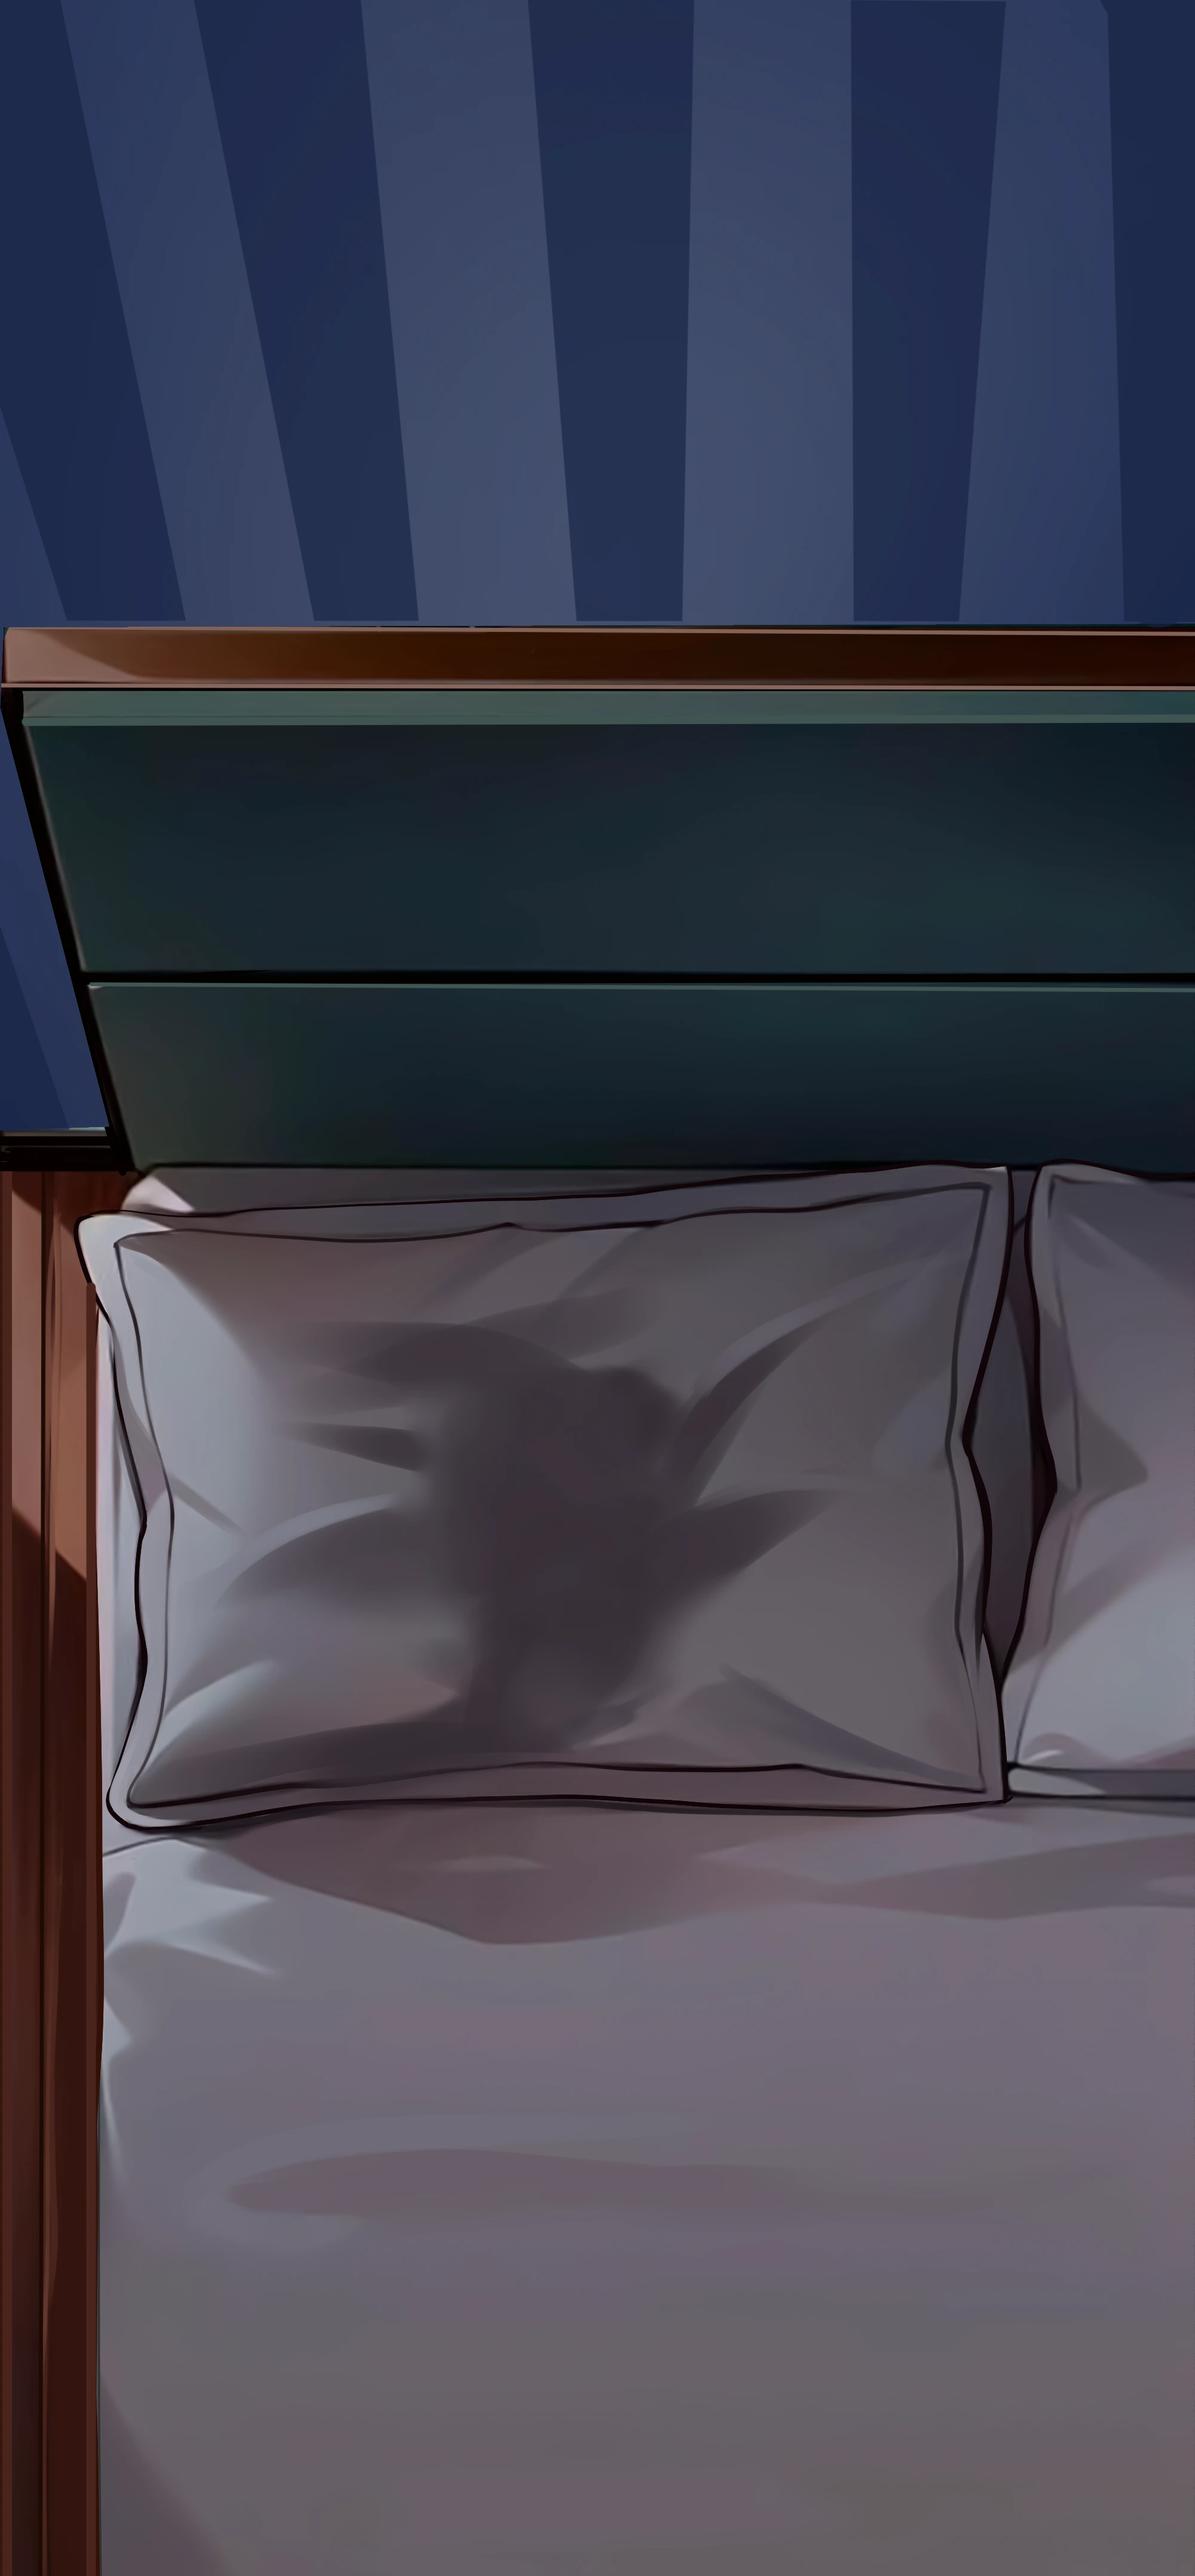
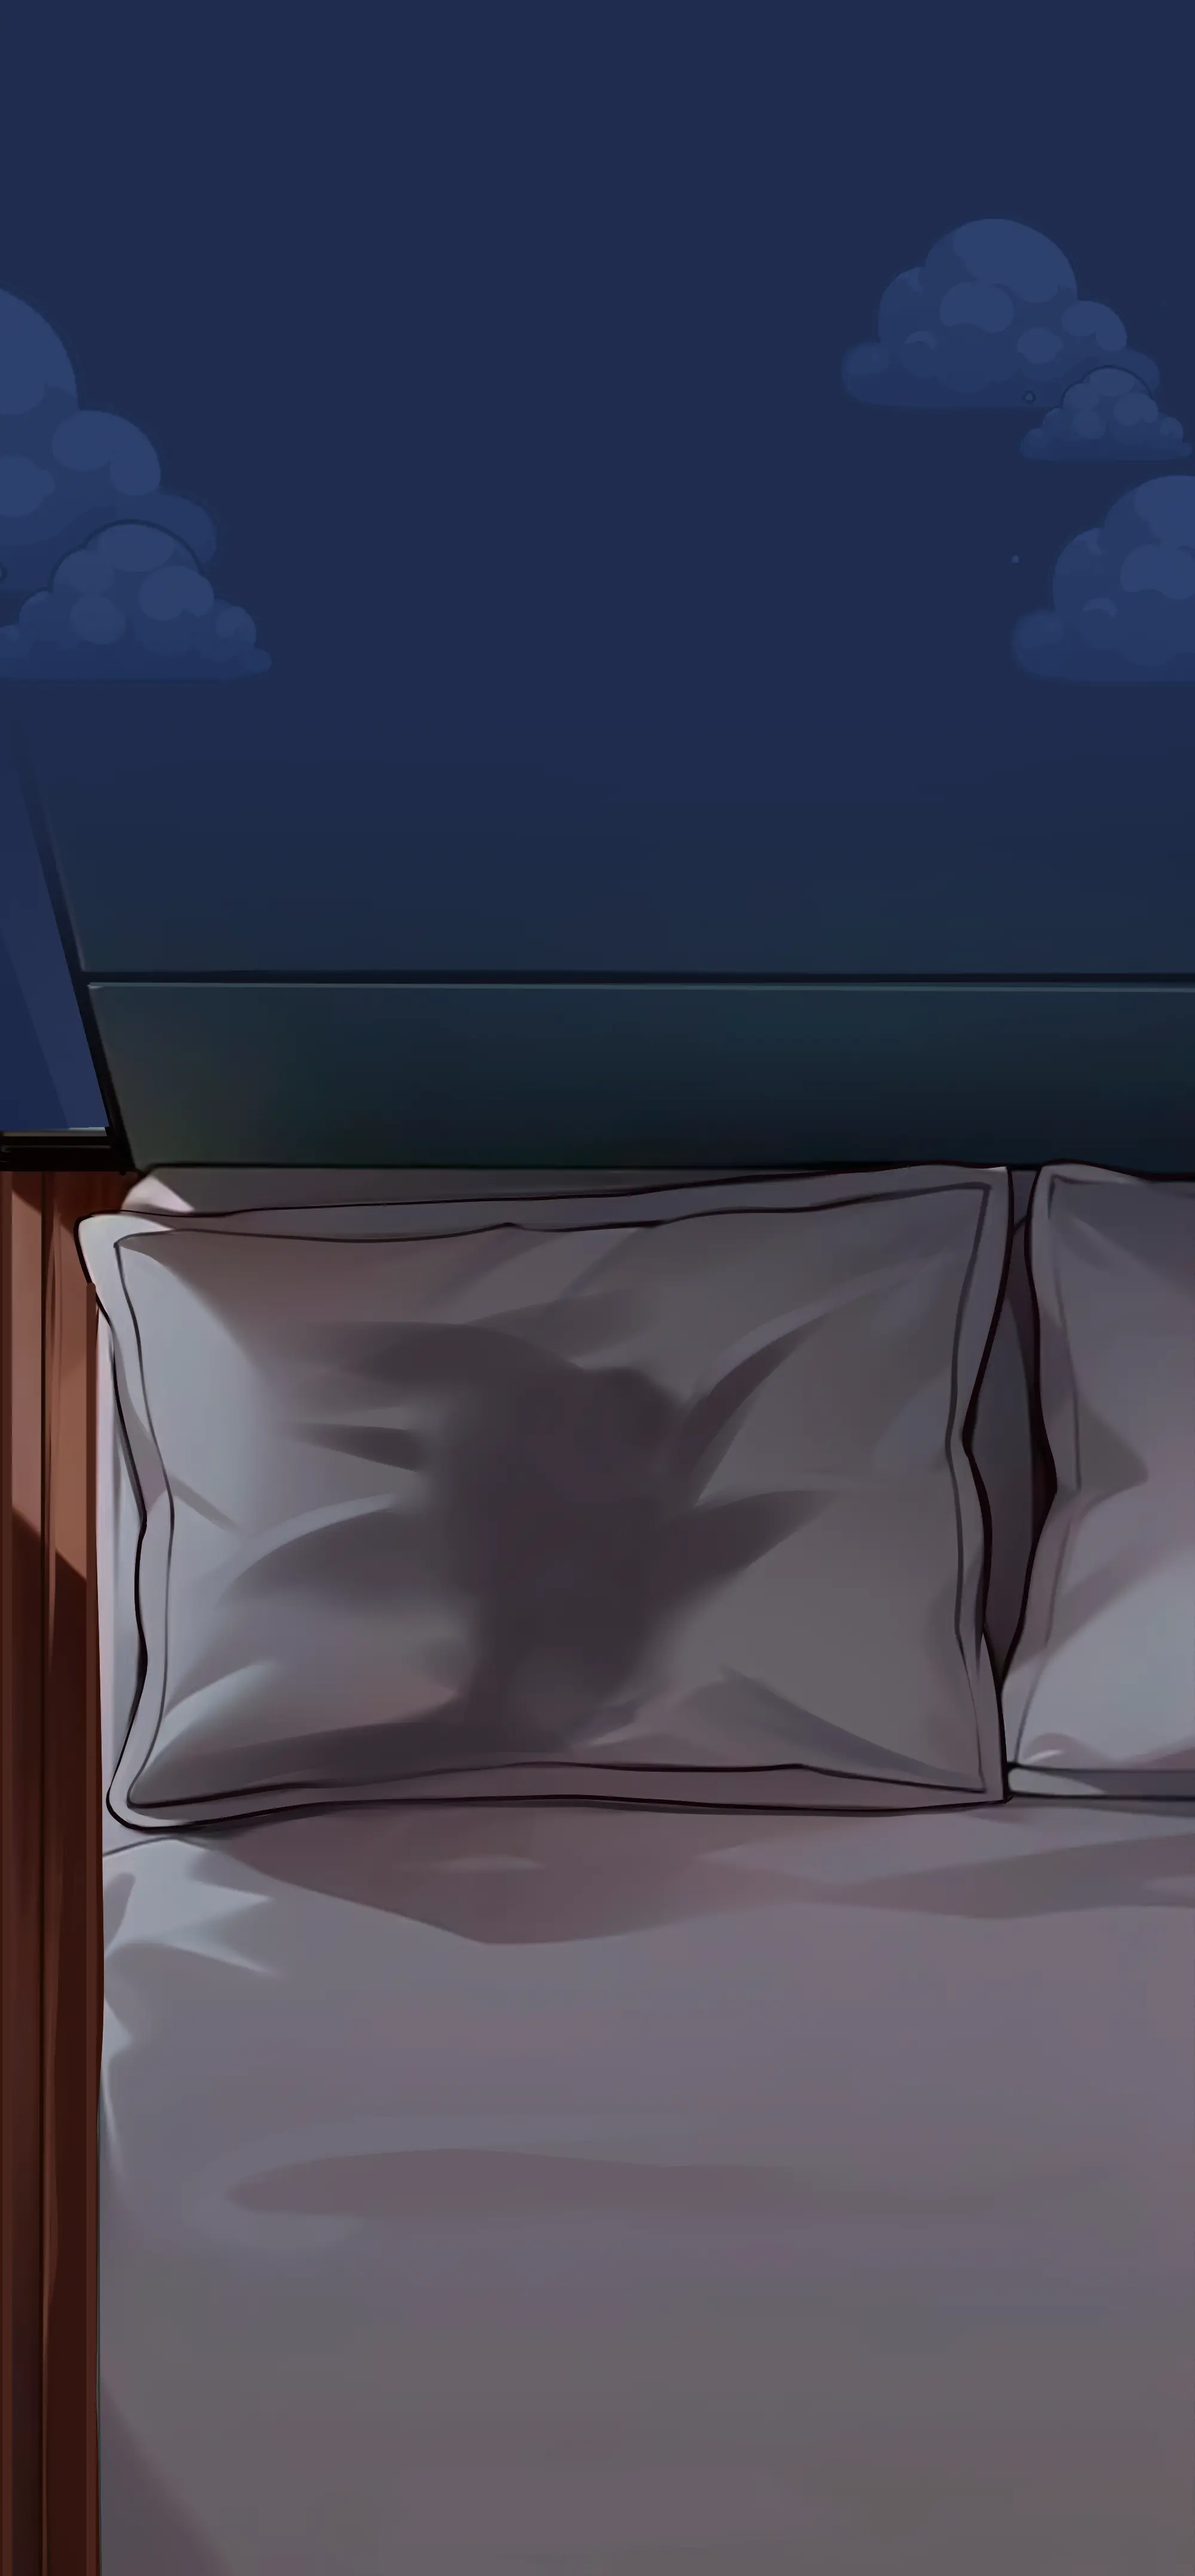
Миниигра визуал

Changed region(s): [[0.0, 0.0, 1.0, 0.3733], [0.062, 0.3733, 1.0, 0.4044], [0.775, 0.0622, 0.837, 0.1244]]

diff --git a/src/screens/Home/SleepGame.jsx b/src/screens/Home/SleepGame.jsx
@@ -34,7 +34,7 @@ const SleepGame = ({
   // Preload assets
   const preloadAssets = useCallback(async () => {
     const assetPromises = [
-      ["coin", Assets.Icons.energyUp],
+      ["coin", Assets.Icons.clock],
       ["ground", Assets.Images.sleepSheepGroundGif],
       ["cloud", Assets.Images.sleepSheepCloud],
       ["player1", Assets.Images.sleepSheep1],
@@ -64,14 +64,14 @@ const SleepGame = ({
     const canvasWidth = 374;
     cloudsRef.current = Array.from({ length: CLOUD_COUNT }, (_, i) => ({
       x: i * CLOUD_SPACING,
-      y: Math.random() * 120,
+      y: Math.random() * 100,
       width: 80,
       height: 80,
     }));
     while (cloudsRef.current[cloudsRef.current.length - 1].x < canvasWidth + CLOUD_SPACING * 2) {
       cloudsRef.current.push({
         x: cloudsRef.current[cloudsRef.current.length - 1].x + CLOUD_SPACING,
-        y: Math.random() * 120,
+        y: Math.random() * 100,
         width: 80,
         height: 80,
       });
@@ -109,7 +109,7 @@ const SleepGame = ({
   const handleJump = useCallback(async () => {
     const player = playerRef.current;
     if (!player.jumping) {
-      player.velocityY = -12;
+      player.velocityY = -11;
       player.jumping = true;
       const jumpTime = new Date().toISOString();
       playerJumpsRef.current.push({ time: jumpTime, y: player.y });
@@ -209,7 +209,7 @@ const SleepGame = ({
     coinsRef.current.forEach((coin) => {
       if (!collectedCoinsRef.current.has(coin.id) && coin.localX >= -20 && coin.localX <= canvas.width) {
         if (assetsRef.current.coin) {
-          ctx.drawImage(assetsRef.current.coin, coin.localX, coin.y, 20, 20);
+          ctx.drawImage(assetsRef.current.coin, coin.localX, coin.y, 25, 25);
         }
 
         const playerRect = { left: player.x, right: player.x + 40, top: player.y, bottom: player.y + 40 };
@@ -278,12 +278,12 @@ const SleepGame = ({
   return (
     <div
       style={{
-        background: "linear-gradient(0deg, rgba(231, 231, 231, 1) 44%, rgba(208, 208, 208, 0) 100%)",
-        backgroundColor: "black",
+        background: "linear-gradient(0deg, rgb(27 37 61) 64%, rgba(255, 255, 255, 0) 100%)",
+        
         borderBottom: "3px solid rgb(32 20 30)",
         borderRadius: "8px",
         position: "absolute",
-        top: "26.5%",
+        top: "20.5%",
         left: "0%",
         width: "100%",
         height: "200px",
